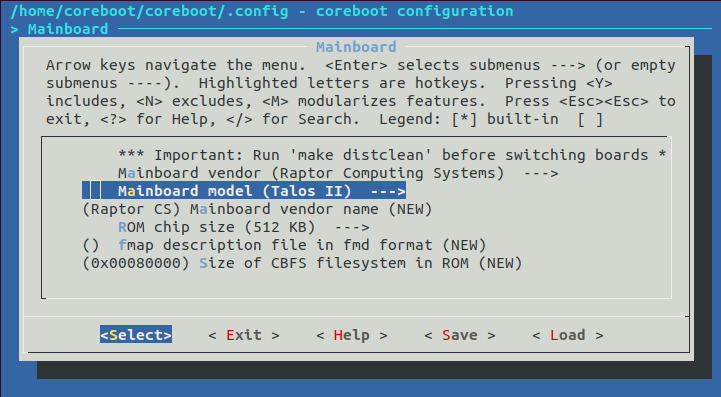
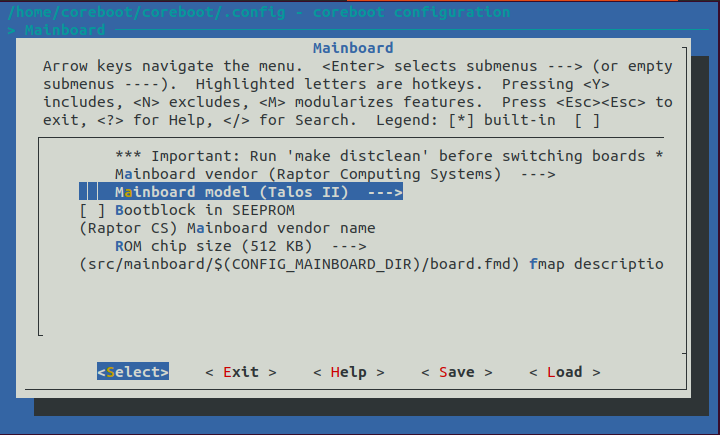
devnotes/documentation.md: Update to working romstage

Changed region(s): [[0.0, 0.0, 1.0, 1.0]]

diff --git a/devnotes/documentation.md b/devnotes/documentation.md
@@ -109,7 +109,6 @@ In order to build coreboot image, follow the steps below:
    * As a **Mainboard vendor** select `Raptor Computing Systems`
    * If it wasn't selected autmatically, as **Mainboard model** select `Talos II`
    * In the **ROM chip size** option select `512 KB`
-   * As **Size of CBFS filesystem in ROM** set `0x80000` (Only if this option is present)
    * Save the configuration and exit.
 
    ![](../images/cb_menuconfig.png)
@@ -156,7 +155,7 @@ In order to build coreboot image, follow the steps below:
 
    Wait for a while until coreboot shows up:
 
-   ![](../images/cb_bootblock.png)
+   [![asciicast](https://asciinema.org/a/OTEPFRHlasyXQI2eRBLso0AB0.svg)](https://asciinema.org/a/OTEPFRHlasyXQI2eRBLso0AB0)
 
 5. Enjoy the coreboot running on Talos II.
 
@@ -164,25 +163,3 @@ In order to build coreboot image, follow the steps below:
 > the HBB partition back with:\
 > `pflash -e -P HBB -p /tmp/hbb.bin`
 
-## Running the coreboot on QEMU
-
-Please keep in mind, that QEMU doesn't implement many of the HW properties,
-that Talos II has. There may be many compatibility issues, or registers missing.
-
-More detailed informations can be found in [porting.md#qemu](porting.md#qemu)
-
-1. Clone the QEMU repository
-   ```
-   git clone git@github.com:qemu/qemu.git
-   # or HTTPS alternatively
-   git clone https://github.com/qemu/qemu.git
-   ```
-2. Build the QEMU ppc64 version
-   ```
-   cd qemu
-    ./configure --target-list=ppc64-softmmu && make
-   ```
-3. Start QEMU with coreboot image
-   ````
-   ./qemu/build/qemu-system-ppc64 -M powernv,hb-mode=on --cpu power9 --bios 'coreboot/build/coreboot.rom' -d unimp,guest_errors -serial stdio -drive file=flash.pnor,format=raw,readonly=on,if=mtd
-   ````
